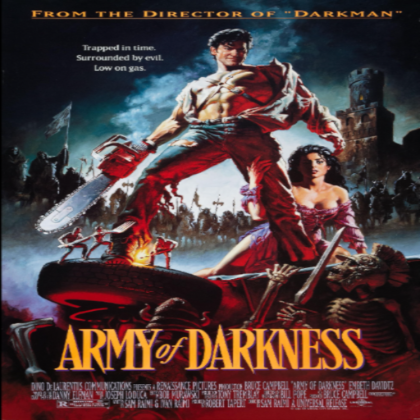
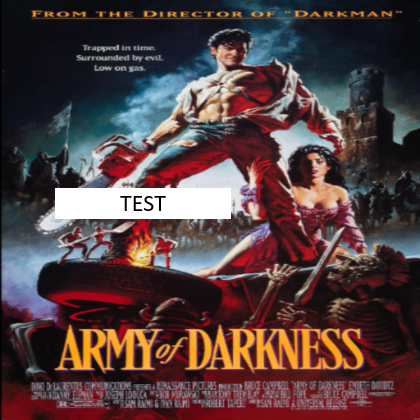
#230 movie poster replacement using agebasic.

Changed region(s): [[0.1238, 0.4333, 0.5571, 0.5262]]

diff --git a/Assets/curif/LibRetroWrapper/basic/basicAGE.cs b/Assets/curif/LibRetroWrapper/basic/basicAGE.cs
@@ -201,10 +201,20 @@ public class basicAGE : MonoBehaviour
         return str;
     }
 
-    public bool Running()
+    public bool IsRunning()
     {
-        return running == null;
+        return running != null;
     }
+    public bool IsRunning(string name)
+    {
+        return (running != null && running.Name == name);
+    }
+    public bool ExceptionOccurred()
+    {
+        return LastRuntimeException != null;
+    }
+
+
     public void Stop()
     {
         if (running == null)
@@ -224,32 +234,21 @@ public class basicAGE : MonoBehaviour
         running.PrepareToRun();
 
         if (!blocking)
-            StartCoroutine(runProgram());
-        else
         {
-            bool moreLines = true;
-            while (moreLines)
-            {
-                try
-                {
-                    moreLines = running.runNextLine();
-                }
-                catch (Exception e)
-                {
-                    string strerror = errorMessage(running, e);
-                    ConfigManager.WriteConsoleError(strerror);
-                    LastRuntimeException = new(running.Name, configCommands.LineNumber, e.Message, e);
-                    if (configCommands.DebugMode)
-                        SaveDebug(name, null, LastRuntimeException);
-                    running = null;
-                    return;
-                }
-            }
-            ConfigManager.WriteConsole($"{running.Name} END.");
-            if (configCommands.DebugMode)
-                SaveDebug(name);
-            running = null;
+            StartCoroutine(runProgram());
+            return;
         }
+
+        bool moreLines = true;
+        while (moreLines)
+        {
+            moreLines = RunALine();
+        }
+
+        if (configCommands.DebugMode)
+            SaveDebug(running.Name, null, LastRuntimeException);
+
+        running = null;
         return;
     }
 
@@ -289,15 +288,6 @@ public class basicAGE : MonoBehaviour
         LastRuntimeException = null;
     }
 
-    public bool IsRunning(string name)
-    {
-        return (running != null && running.Name == name);
-    }
-    public bool ExceptionOccurred()
-    {
-        return LastRuntimeException != null;
-    }
-
 
     IEnumerator runProgram()
     {
@@ -309,34 +299,28 @@ public class basicAGE : MonoBehaviour
             yield return new WaitForSeconds(0.01f);
         }
 
-        ConfigManager.WriteConsole($"{running.Name} END. {running.ContLinesExecuted} lines executed.");
+        ConfigManager.WriteConsole($"[runProgram] {running.Name} END. {running.ContLinesExecuted} lines executed. ERROR: {LastRuntimeException}");
 
         if (configCommands.DebugMode)
-            if (LastRuntimeException != null)
-                SaveDebug(name, null, LastRuntimeException);
-            else
-                SaveDebug(running.Name);
+            SaveDebug(running.Name, null, LastRuntimeException);
 
         running = null;
-        LastRuntimeException = null;
     }
 
     //run a line of an started program
     public bool RunALine()
     {
-        bool moreLines = false;
         try
         {
-            moreLines = running.runNextLine();
+            return running.runNextLine();
         }
         catch (Exception e)
         {
             string strerror = errorMessage(running, e);
-            ConfigManager.WriteConsoleError(strerror);
+            ConfigManager.WriteConsoleError($"[RunALine] {strerror}");
             LastRuntimeException = new(running.Name, configCommands.LineNumber, e.Message, e);
             return false;
         }
-        return moreLines;
     }
 
 #if UNITY_EDITOR

diff --git a/Assets/curif/LibRetroWrapper/basic/functions/filemngmnt.cs b/Assets/curif/LibRetroWrapper/basic/functions/filemngmnt.cs
@@ -73,12 +73,101 @@ class CommandFunctionFILEEXISTS : CommandFunctionSingleExpressionBase
     public override BasicValue Execute(BasicVars vars)
     {
         ConfigManager.WriteConsole($"[AGE BASIC RUN {CmdToken}] [{expr}] ");
-        
+
         BasicValue val = expr.Execute(vars);
         string filePath = val.GetValueAsString();
 
         bool fileExists = File.Exists(filePath);
 
-        return new BasicValue(fileExists? 1:0);
+        return new BasicValue(fileExists ? 1 : 0);
     }
 }
+
+class CommandFunctionCOMBINEPATH : CommandFunctionExpressionListBase
+{
+    public CommandFunctionCOMBINEPATH(ConfigurationCommands config) : base(config)
+    {
+        cmdToken = "COMBINEPATH";
+    }
+
+    public override bool Parse(TokenConsumer tokens)
+    {
+        return base.Parse(tokens, 2);
+    }
+
+    public override BasicValue Execute(BasicVars vars)
+    {
+        ConfigManager.WriteConsole($"[AGE BASIC RUN {CmdToken}] [{exprs}] ");
+
+        BasicValue[] vals = exprs.ExecuteList(vars);
+
+        string path1 = vals[0].GetValueAsString();
+        string path2 = vals[1].GetValueAsString();
+
+        try
+        {
+            string combinedPath = Path.Combine(path1, path2);
+            return new BasicValue(combinedPath);
+        }
+        catch (Exception ex)
+        {
+            // Handle any exceptions that may occur (e.g., invalid paths)
+            ConfigManager.WriteConsole($"Error: {ex.Message}");
+            return new BasicValue("");
+        }
+    }
+}
+
+class PathFunctionsBase : CommandFunctionNoExpressionBase
+{
+    public PathFunctionsBase(ConfigurationCommands config, string token) : base(config)
+    {
+        cmdToken = token;
+    }
+
+    public override BasicValue Execute(BasicVars vars)
+    {
+        ConfigManager.WriteConsole($"[AGE BASIC RUN {CmdToken}]");
+        switch (cmdToken)
+        {
+            case "CONFIGPATH":
+                return new BasicValue(ConfigManager.ConfigDir);
+            case "AGEBASICPATH":
+                return new BasicValue(ConfigManager.AGEBasicDir);
+            case "CABINETSDBPATH":
+                return new BasicValue(ConfigManager.CabinetsDB);
+            case "CABINETSPATH":
+                return new BasicValue(ConfigManager.Cabinets);
+            case "ROOTPATH":
+                return new BasicValue(ConfigManager.BaseDir);
+            default:
+                return new BasicValue("");
+        }
+    }
+}
+
+class CommandFunctionCONFIGPATH : PathFunctionsBase
+{
+    public CommandFunctionCONFIGPATH(ConfigurationCommands config) : base(config, "CONFIGPATH") { }
+}
+
+class CommandFunctionAGEBASICPATH : PathFunctionsBase
+{
+    public CommandFunctionAGEBASICPATH(ConfigurationCommands config) : base(config, "AGEBASICPATH") { }
+}
+
+class CommandFunctionCABINETSDBPATH : PathFunctionsBase
+{
+    public CommandFunctionCABINETSDBPATH(ConfigurationCommands config) : base(config, "CABINETSDBPATH") { }
+}
+
+class CommandFunctionCABINETSPATH : PathFunctionsBase
+{
+    public CommandFunctionCABINETSPATH(ConfigurationCommands config) : base(config, "CABINETSPATH") { }
+}
+
+class CommandFunctionROOTPATH : PathFunctionsBase
+{
+    public CommandFunctionROOTPATH(ConfigurationCommands config) : base(config, "ROOTPATH") { }
+}
+

diff --git a/Assets/curif/LibRetroWrapper/ConfigManager.cs b/Assets/curif/LibRetroWrapper/ConfigManager.cs
@@ -5,7 +5,7 @@ You should have received a copy of the GNU General Public License along with thi
 */
 
 // coment the next line for releases build
-// #define FORCE_DEBUG
+#define FORCE_DEBUG
 #if UNITY_EDITOR
 #define DEBUG_ACTIVE
 #elif FORCE_DEBUG
@@ -20,21 +20,20 @@ public static class ConfigManager
 {
     //paths
 #if UNITY_EDITOR
-  //public static string BaseDir = Environment.GetEnvironmentVariable("HOME") + "/cabs";
-    public static string BaseDir = Environment.GetFolderPath(Environment.SpecialFolder.UserProfile)+ "/cabs";
+    public static string BaseDir = Path.Combine(Environment.GetFolderPath(Environment.SpecialFolder.UserProfile), "cabs");
 #else
     public static string BaseDir = "/sdcard/Android/data/com.curif.AgeOfJoy";
 #endif
 
-    public static string Cabinets = $"{BaseDir}/cabinets"; //compressed
-    public static string CabinetsDB = $"{BaseDir}/cabinetsdb"; //uncompressed cabinets
-    public static string SystemDir = $"{BaseDir}/system";
-    public static string RomsDir = $"{BaseDir}/downloads";
-    public static string GameSaveDir = $"{BaseDir}/save";
-    public static string GameStatesDir = $"{BaseDir}/startstates";
-    public static string ConfigDir = $"{BaseDir}/configuration";
-    public static string ConfigControllersDir = $"{BaseDir}/configuration/controllers";
-    public static string AGEBasicDir = $"{BaseDir}/AGEBasic";
+    public static string Cabinets = Path.Combine(BaseDir, "cabinets"); //$"{BaseDir}/cabinets"; //compressed
+    public static string CabinetsDB = Path.Combine(BaseDir,"cabinetsdb"); //uncompressed cabinets
+    public static string SystemDir = Path.Combine(BaseDir,"system");
+    public static string RomsDir = Path.Combine(BaseDir,"downloads");
+    public static string GameSaveDir = Path.Combine(BaseDir,"save");
+    public static string GameStatesDir = Path.Combine(BaseDir, "startstates");
+    public static string ConfigDir = Path.Combine(BaseDir,"configuration");
+    public static string ConfigControllersDir = Path.Combine(ConfigDir, "controllers");
+    public static string AGEBasicDir = Path.Combine(BaseDir,"AGEBasic");
 
     public static ConfigInformation configuration;
     public static bool DebugActive

diff --git a/Assets/curif/UI/ConfigurationController.cs b/Assets/curif/UI/ConfigurationController.cs
@@ -1200,17 +1200,22 @@ public class ConfigurationController : MonoBehaviour
             }
             catch (Exception ex)
             {
+                compilationError = true;
                 ConfigManager.WriteConsoleException($"[ConfigurationController] [{ageBasicInformation.afterLoad}]", ex);
+                scr.PrintCentered(5, "compilation error:", true);
+                scr.Print(0, 6, ex.Message);
             }
 
             if (!compilationError)
             {
                 ConfigManager.WriteConsole($"[ConfigurationController] [{ageBasicInformation.afterLoad}] start run");
                 AGEBasic.DebugMode = ageBasicInformation.debug;
-                AGEBasic.Run(ageBasicInformation.afterLoad, true);
+                AGEBasic.Run(ageBasicInformation.afterLoad, blocking: false);
 
-                while (AGEBasic.IsRunning(ageBasicInformation.afterLoad))
+                while (AGEBasic.IsRunning())
                     yield return new WaitForSeconds(1f / 2f);
+
+                ConfigManager.WriteConsole($"[ConfigurationController] [{ageBasicInformation.afterLoad}] ended. Error: [{AGEBasic.LastRuntimeException}]");
                 
                 if (AGEBasic.ExceptionOccurred())
                 {
@@ -1735,7 +1740,7 @@ public class ConfigurationController : MonoBehaviour
                   if (AGEBasic.LastRuntimeException != null)
                       ((GenericTimedLabel)AGEBasicContainer.GetWidget("RuntimeStatus")).Start(4);
 
-                  if (!AGEBasic.Running())
+                  if (AGEBasic.IsRunning())
                       return TaskStatus.Continue;
 
                   status = StatusOptions.onRunAGEBasic;

diff --git a/Assets/curif/LibRetroWrapper/MoviePosterController.cs b/Assets/curif/LibRetroWrapper/MoviePosterController.cs
@@ -7,6 +7,7 @@ using System.Collections;
 using System.Collections.Generic;
 using UnityEngine;
 using System.IO;
+using System;
 
 
 public class MoviePosterController : MonoBehaviour
@@ -73,15 +74,18 @@ public class MoviePosterController : MonoBehaviour
       Renderer renderer = childObject.GetComponent<Renderer>();
 
       if (renderer == null)
-        return false;
-      
+        throw new Exception($"Poster #{childIndex} doesn't have a renderer");
+
       Texture2D newTexture = LoadTexture(newTexturePath);
       if (newTexture == null)
-        return false;
+        throw new Exception($"Texture #{childIndex} not loaded, path: {newTexturePath}");
 
       renderer.material.SetTexture("_MainTex", newTexture);
       return true;
     }
+    else
+      throw new Exception($"Poster #{childIndex} doesn't exist");
+
     return false;
   }
 

diff --git a/Assets/curif/LibRetroWrapper/basic/functions/posters.cs b/Assets/curif/LibRetroWrapper/basic/functions/posters.cs
@@ -39,14 +39,9 @@ class CommandFunctionPOSTERROOMREPLACE : CommandFunctionExpressionListBase
 
         BasicValue[] vals = exprs.ExecuteList(vars);
         FunctionHelper.ExpectedNumber(vals[0], " - poster position");
-        FunctionHelper.ExpectedString(vals[1], " - image path");
+        FunctionHelper.ExpectedNonEmptyString(vals[1], " - image path");
 
-        string path = vals[1].GetString();
-        if (string.IsNullOrEmpty(path))
-            return BasicValue.False; //fail
-
-        bool result = config.PostersController.Replace((int)vals[0].GetNumber(), path);
-
+        bool result = config.PostersController.Replace((int)vals[0].GetNumber(), vals[1].GetString());
         return new BasicValue(result ? 1 : 0);
     }
 }

diff --git a/Assets/curif/LibRetroWrapper/basic/basicCommands.cs b/Assets/curif/LibRetroWrapper/basic/basicCommands.cs
@@ -57,6 +57,12 @@ public static class Commands
         //files
         functions["GETFILES"] = typeof(CommandFunctionGETFILES);
         functions["FILEEXISTS"] = typeof(CommandFunctionFILEEXISTS);
+        functions["COMBINEPATH"] = typeof(CommandFunctionCOMBINEPATH);
+        functions["CONFIGPATH"] = typeof(CommandFunctionCONFIGPATH);
+        functions["AGEBASICPATH"] = typeof(CommandFunctionAGEBASICPATH);
+        functions["CABINETSDBPATH"] = typeof(CommandFunctionCABINETSDBPATH);
+        functions["CABINETSPATH"] = typeof(CommandFunctionCABINETSPATH);
+        functions["ROOTPATH"] = typeof(CommandFunctionROOTPATH);
         
         //introspection
         functions["EXISTS"] = typeof(CommandFunctionEXIST);

diff --git a/Assets/curif/LibRetroWrapper/basic/functions/functionBase.cs b/Assets/curif/LibRetroWrapper/basic/functions/functionBase.cs
@@ -140,5 +140,11 @@ public static class FunctionHelper
             throw new Exception("Parameter should be a string " + msg);
         return true;
     }
+    public static bool ExpectedNonEmptyString(BasicValue val, string msg = "")
+    {
+        if (!val.IsString() || string.IsNullOrEmpty(val.GetString()))
+            throw new Exception("Parameter should be a non empty string " + msg);
+        return true;
+    }
 
 }
